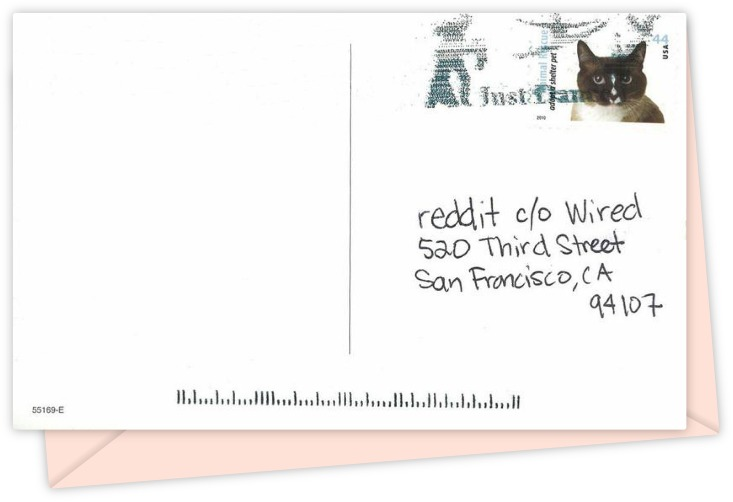
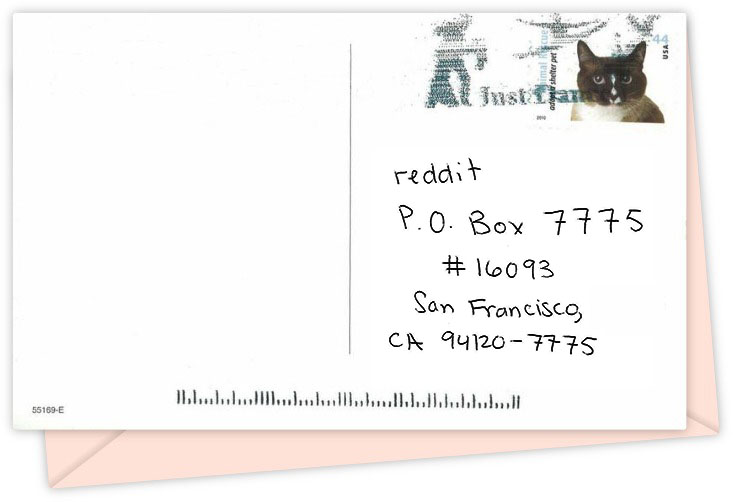
Update postcard mailing address.
Fix address typo.

diff --git a/reddit_gold/templates/goldinfopage.html b/reddit_gold/templates/goldinfopage.html
@@ -164,7 +164,7 @@
     ${goldinfo_footer()}
   </section>
   <div class="or-box">${_('or')}</div>
-  <a class="postcard" href="/about/postcards" target="_blank">
+  <a class="postcard" href="/about/postcards" target="_blank" alt="reddit, PO Box 7775 #16093, San Francisco, CA 94120-7775">
     <section id="postcard">
       ## TRANSLATORS: this string is displayed as the content of a postcard
       ## with pretty typographical formatting.
